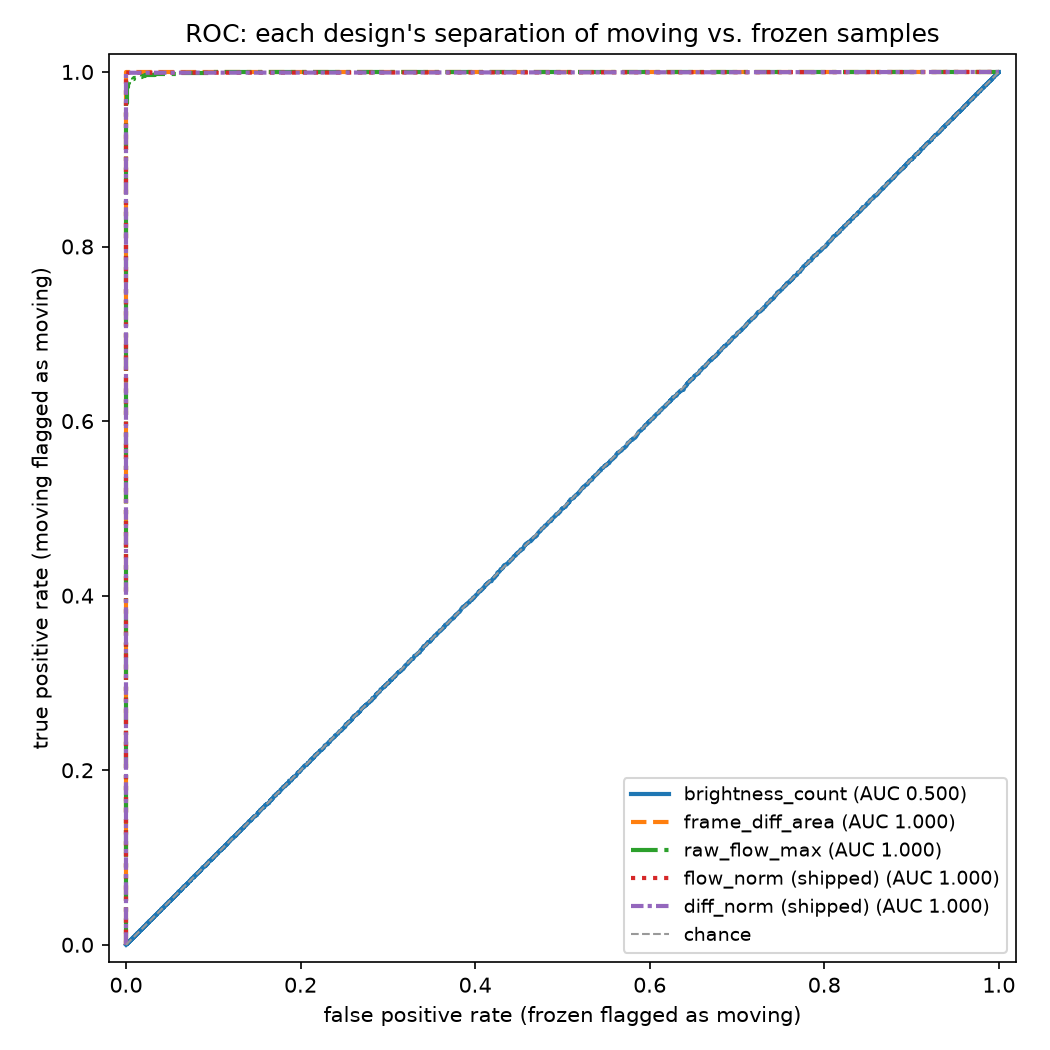
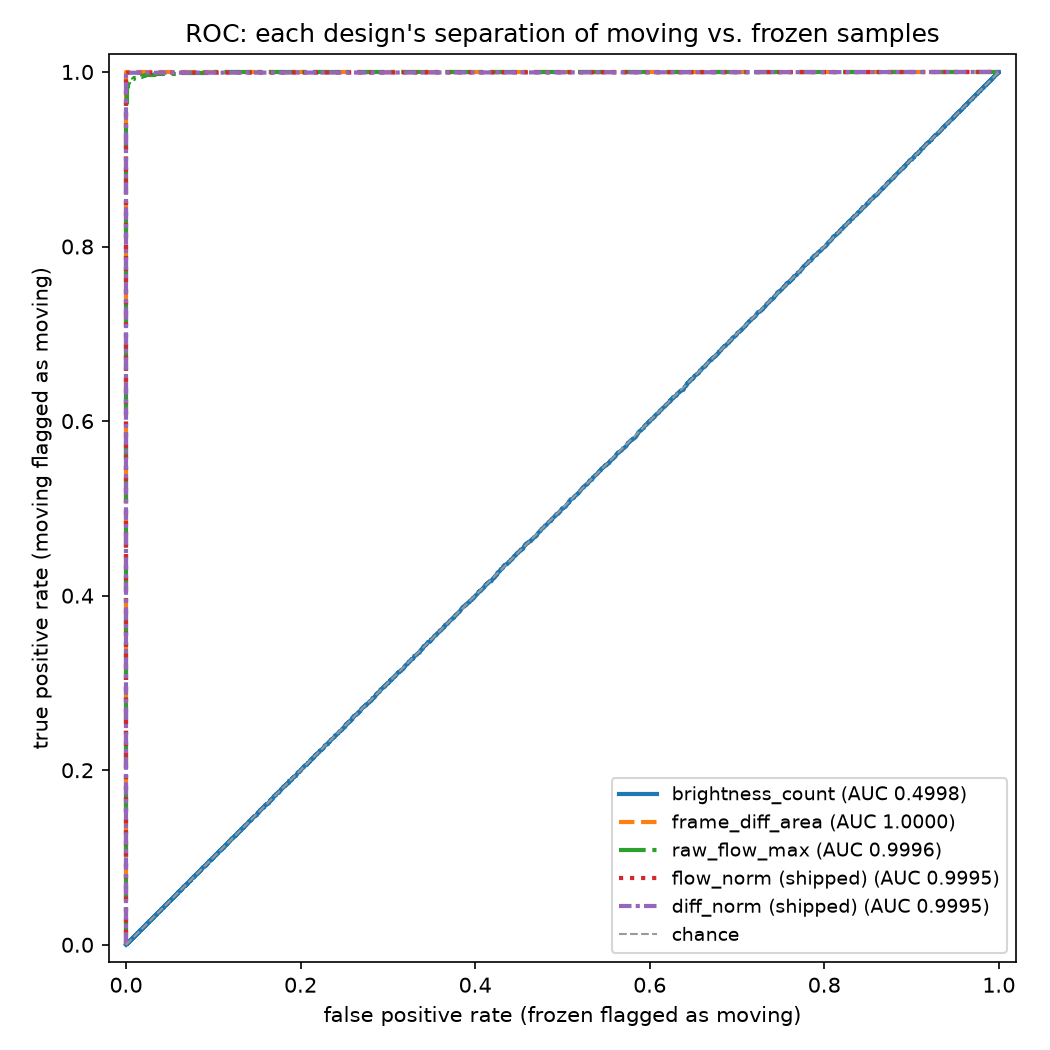
fix: install instructions, armed-only judge feeding, figure precision
Replace the nonexistent `pip install redlight` in the site's engine
section with the clone-and-install flow the README quickstart already
uses. Gate site/arena.js's judge feeding on game.armed(now), matching
app.run, so a player's EMA and streak built up during grace can no
longer trigger an instant call the moment the red light arms. Fix the
README hero caption to match the pictured footage. Round the ROC
legend's AUC to four decimals so near-perfect designs no longer all
read as 1.000, and regenerate reports/figures/roc_curves.png.

Changed region(s): [[0.579, 0.7314, 0.9448, 0.9143]]

diff --git a/docs/index.html b/docs/index.html
@@ -2498,7 +2498,10 @@ footer p {
                 YOLO11n or weights-free HOG detection, and writes the benchmark
                 every number on this page comes from.
               </p>
-              <pre><code>pip install redlight
+              <pre><code>git clone https://github.com/safdar-hussain1/red-light-green-light-cv.git
+cd red-light-green-light-cv
+python3 -m venv .venv && source .venv/bin/activate
+pip install -e ".[audio,analysis,dev]"
 
 # play against your webcam
 redlight play --source 0
@@ -4091,13 +4094,25 @@ class Arena {
     const pair = this.sampler.offer(crops, now);
     if (!pair) return [];
 
+    // Same gate the desktop engine applies in `app.run`: a pair is only fed
+    // to the judge once the sampler has released it *and* the current red
+    // light is armed. Grace exists so a player mid-stride is not punished
+    // for momentum they had before the light turned — feeding the judge
+    // during grace would let the EMA and streak it builds there survive
+    // into the armed window and trigger a call the instant grace ends,
+    // which defeats the point of having grace at all.
+    const armed = this.game ? this.game.armed(now) : false;
+
     const violations = [];
     for (const key of Object.keys(pair.cur)) {
       const previous = pair.prev[key];
       if (!previous) continue;
       const id = Number(key);
+      // Computed unconditionally: the raw diff is cheap, and nothing below
+      // this line about *displaying* a score should depend on whether the
+      // light happens to be armed right now.
       const score = diffScoreWindow(previous, pair.cur[key], pair.dt);
-      if (this.judge.update(id, score)) violations.push(id);
+      if (armed && this.judge.update(id, score)) violations.push(id);
 
       let trace = this.traces.get(id);
       if (!trace) {

diff --git a/site/arena.js b/site/arena.js
@@ -498,13 +498,25 @@ class Arena {
     const pair = this.sampler.offer(crops, now);
     if (!pair) return [];
 
+    // Same gate the desktop engine applies in `app.run`: a pair is only fed
+    // to the judge once the sampler has released it *and* the current red
+    // light is armed. Grace exists so a player mid-stride is not punished
+    // for momentum they had before the light turned — feeding the judge
+    // during grace would let the EMA and streak it builds there survive
+    // into the armed window and trigger a call the instant grace ends,
+    // which defeats the point of having grace at all.
+    const armed = this.game ? this.game.armed(now) : false;
+
     const violations = [];
     for (const key of Object.keys(pair.cur)) {
       const previous = pair.prev[key];
       if (!previous) continue;
       const id = Number(key);
+      // Computed unconditionally: the raw diff is cheap, and nothing below
+      // this line about *displaying* a score should depend on whether the
+      // light happens to be armed right now.
       const score = diffScoreWindow(previous, pair.cur[key], pair.dt);
-      if (this.judge.update(id, score)) violations.push(id);
+      if (armed && this.judge.update(id, score)) violations.push(id);
 
       let trace = this.traces.get(id);
       if (!trace) {

diff --git a/site/template.html b/site/template.html
@@ -648,7 +648,10 @@
                 YOLO11n or weights-free HOG detection, and writes the benchmark
                 every number on this page comes from.
               </p>
-              <pre><code>pip install redlight
+              <pre><code>git clone https://github.com/safdar-hussain1/red-light-green-light-cv.git
+cd red-light-green-light-cv
+python3 -m venv .venv && source .venv/bin/activate
+pip install -e ".[audio,analysis,dev]"
 
 # play against your webcam
 redlight play --source 0

diff --git a/scripts/make_figures.py b/scripts/make_figures.py
@@ -178,7 +178,7 @@ def build_roc_curves(samples, out_path: Path = FIGURES_DIR / "roc_curves.png") -
             tpr,
             linewidth=2,
             linestyle=linestyle,
-            label=f"{_METRIC_LABELS[metric]} (AUC {auc:.3f})",
+            label=f"{_METRIC_LABELS[metric]} (AUC {auc:.4f})",
         )
 
     ax.plot([0, 1], [0, 1], linestyle="--", color="0.6", linewidth=1, label="chance")

diff --git a/docs/DESIGN.md b/docs/DESIGN.md
@@ -368,7 +368,11 @@ tolerance. That is a fair demand: the score is an integer count divided by
 languages. `MotionJudge`, `FrameSampler` and the game rules are pinned the
 same way, with `phase_min_s == phase_max_s` so the two PRNGs drop out of the
 comparison. The shipped page can re-run the whole fixture set in the
-visitor's own browser via `?selftest=1`.
+visitor's own browser via `?selftest=1`. Both sides also agree on *when* a
+sampled pair reaches the judge at all: `app.run` only calls `judge.update`
+once `game.armed(ts)` is true, and `site/arena.js` gates its call on
+`game.armed(now)` the same way, so a player's EMA and streak cannot build up
+during grace and then trigger a call the instant the light arms.
 
 **Not proven, by construction.** How a camera frame *becomes* a 96 x 96
 window. Python clamps the box, resamples with OpenCV's INTER_AREA and

diff --git a/README.md b/README.md
@@ -13,7 +13,7 @@ no install, no upload, nothing recorded.
 crossed box and an OUT label marking the players already
 called](reports/figures/hud_red_light.png)
 
-*Red light on the ground-truth footage. Every player is boxed and tracked;
+*Red light on the ground-truth footage. Every tracked player is boxed;
 crossed boxes labelled OUT are players who already moved.*
 
 ---
